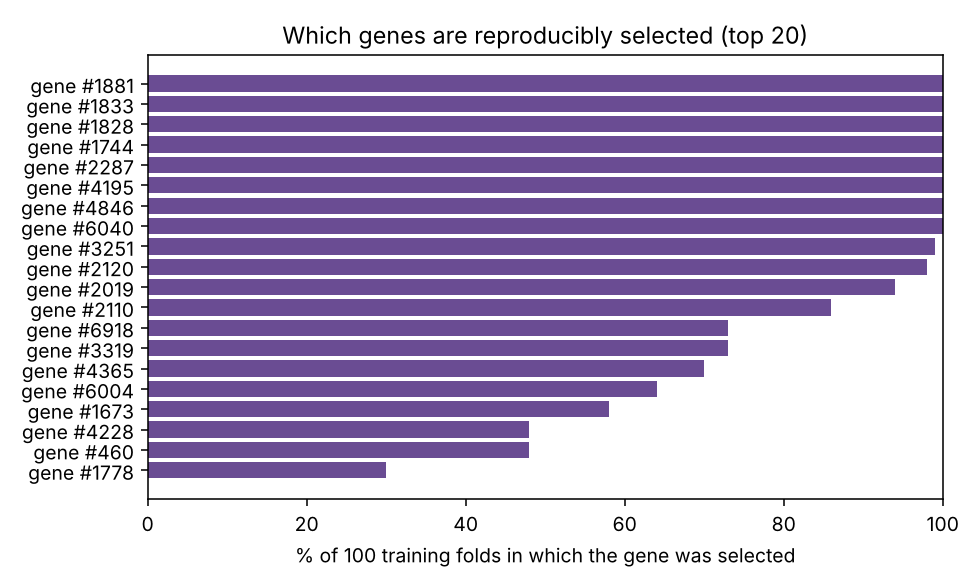
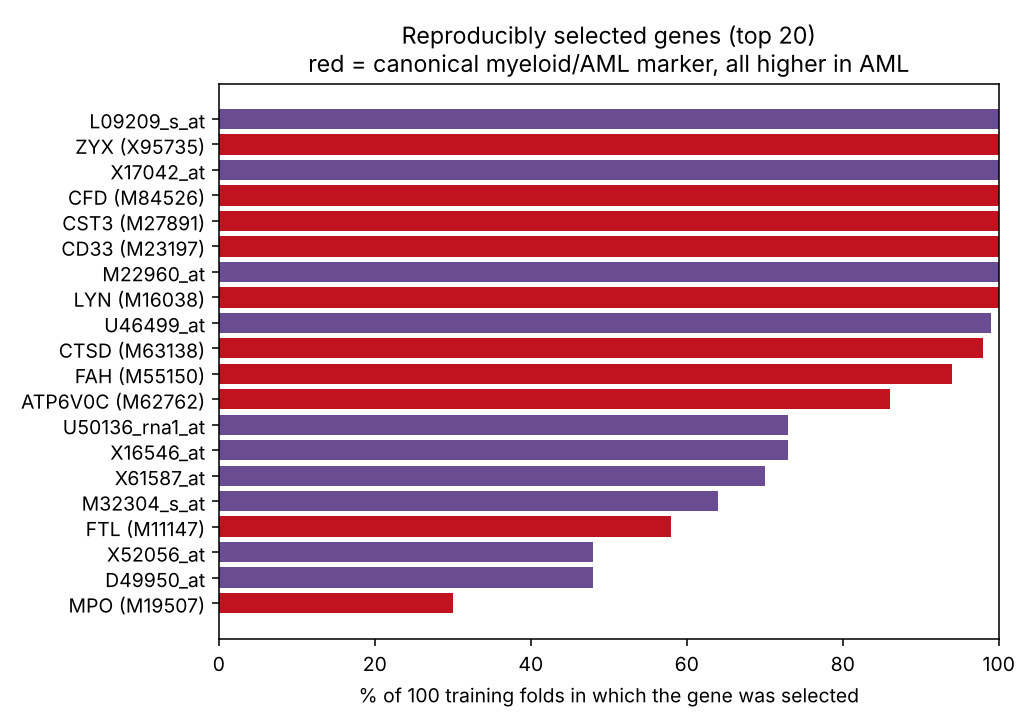
Add files via upload

diff --git a/README.md b/README.md
@@ -36,7 +36,7 @@ With the honest protocol, ALL and AML are genuinely easy to separate — a singl
 
 ![Accuracy vs number of genes](figures/accuracy_vs_genes.png)
 
-## A stable signature
+## A stable — and biologically sensible — signature
 
 A gene signature is only useful if the same genes keep getting chosen. Counting how often each gene is
 selected across all 100 training folds, eight genes are picked in **every single fold** — a reproducible
@@ -44,9 +44,25 @@ core signature, as opposed to genes that look important once by chance.
 
 ![Gene selection stability](figures/gene_stability.png)
 
-`scikit-feature`'s matrix carries no gene symbols, so genes appear by column index; mapping the stable
-indices to names would use the dataset's Affymetrix Hu6800 annotation. The point demonstrated here is the
-*reproducibility* of the selection, which is the property a trustworthy signature must have.
+Mapping the probes to genes (via the Affymetrix Hu6800 annotation used by `golubEsets`) shows the
+signature is not a statistical curiosity — it is **real leukemia biology**. Of the eight genes selected
+in every fold, five are classic myeloid / AML markers: **CD33** (the target of the AML drug
+gemtuzumab), **cystatin C (CST3)**, **zyxin (ZYX)**, **adipsin (CFD)** and the tyrosine kinase **LYN**.
+Every reproducibly-selected gene is **expressed more highly in AML than ALL** — a direction computed
+straight from the data — which is exactly what makes them read-outs of the myeloid lineage. These are
+the same markers the original Golub study highlighted, recovered here by an automatic, leakage-free
+pipeline.
+
+| Probe | Gene | Folds selected | Higher in |
+|---|---|---|---|
+| M23197_at | **CD33** | 100% | AML |
+| M27891_at | **CST3** (cystatin C) | 100% | AML |
+| X95735_at | **ZYX** (zyxin) | 100% | AML |
+| M84526_at | **CFD** (adipsin) | 100% | AML |
+| M16038_at | **LYN** | 100% | AML |
+| M22960_at, X17042_at, L09209_s_at | (uncharacterised here) | 100% | AML |
+| M63138_at | **CTSD** (cathepsin D) | 98% | AML |
+| M55150_at | **FAH** | 94% | AML |
 
 ## How it works
 
@@ -88,14 +104,15 @@ figures/     the three figures above
 - **Selection bias / data leakage**, shown with a shuffled-label control rather than merely asserted.
 - Building a leakage-free evaluation with a scikit-learn `Pipeline` and repeated stratified CV.
 - Reasoning about how many features are actually needed, and the stability of a selected signature.
+- Connecting a data-driven gene signature back to known cancer biology (myeloid/AML markers).
 - Reproducing a foundational computational-biology result and reporting the honest accuracy.
 
 ## Limitations
 
 - 72 patients is small; even with repeated CV the estimates carry a few points of uncertainty, and a
   truly independent cohort would be the stronger test.
-- The expression matrix is pre-standardised and unannotated, so this project stops at gene indices rather
-  than named biomarkers.
+- Gene symbols are given for the well-characterised probes; a few reproducibly-selected probes are left
+  as their Affymetrix identifiers rather than guessed.
 - Univariate selection ignores gene–gene interactions; multivariate or embedded selection could find a
   smaller or more biologically coherent signature.
 
@@ -106,6 +123,8 @@ figures/     the three figures above
 - Ambroise C. & McLachlan G.J. Selection bias in gene extraction on the basis of microarray
   gene-expression data. *PNAS* 99, 6562–6566 (2002).
 - Li J. *et al.* Feature selection: a data perspective (`scikit-feature`). *ACM Computing Surveys* (2017).
+- Gene annotation via the `golubEsets` Bioconductor package (Affymetrix Hu6800 platform); probe order
+  verified to match the expression matrix used here.
 
 ## Author
 
